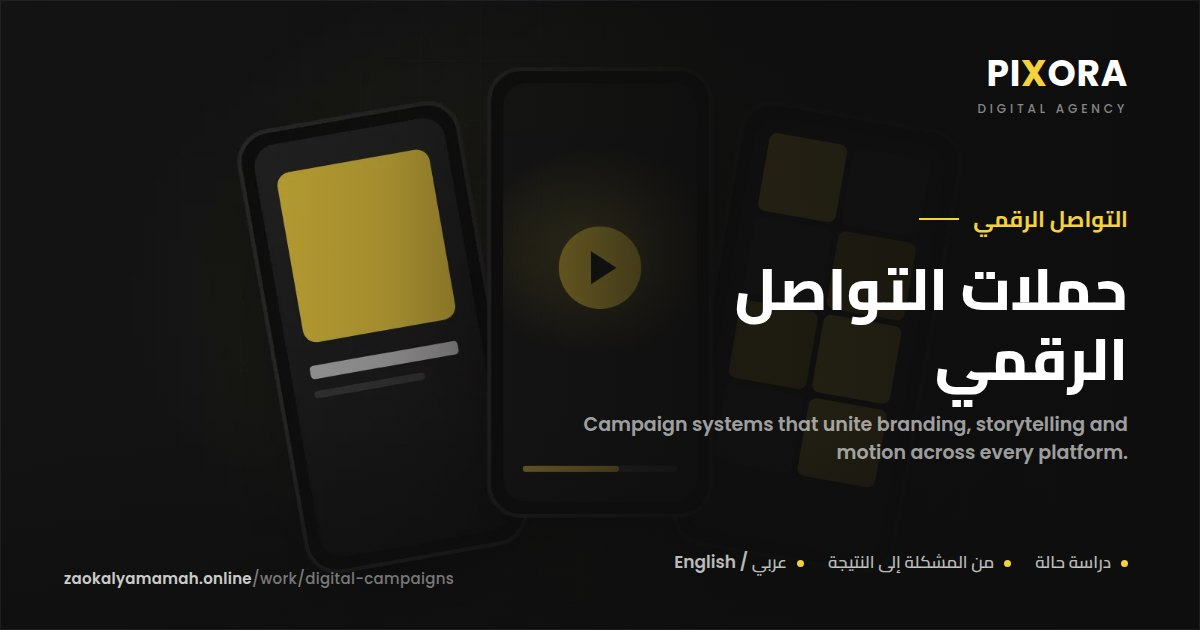
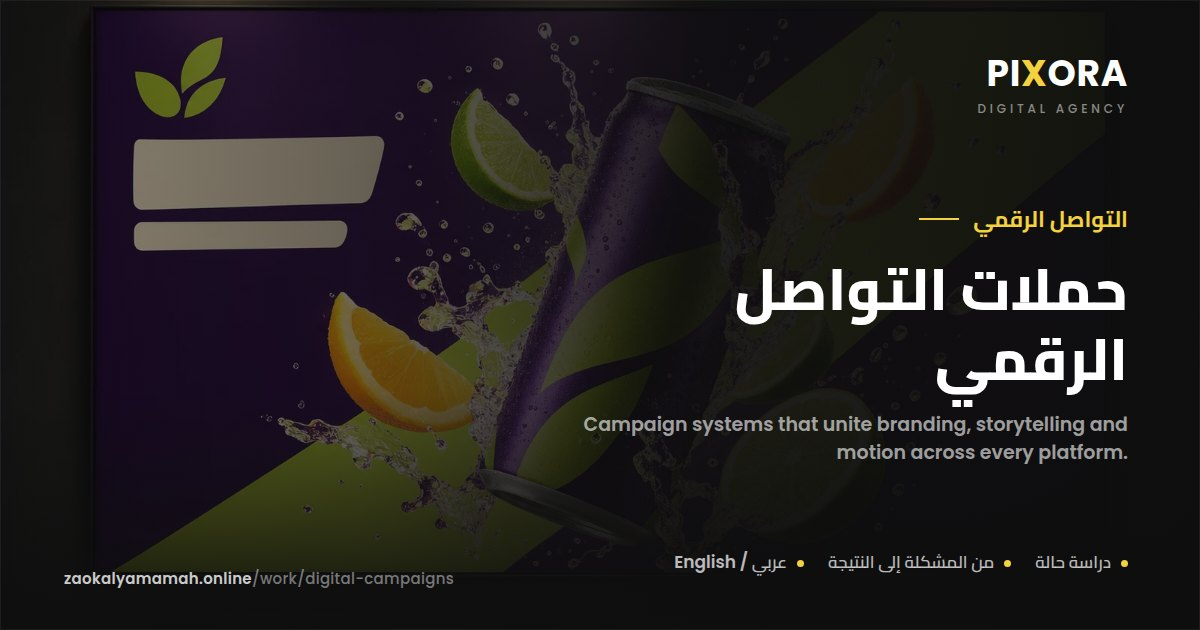
Digital campaigns: the real work in place of its placeholders
- Four images (key visual, motion, stories, feed posts) encoded with
  images.py work; the key visual is now the study's card and link preview.
- images.py work accepts names saved with a doubled extension
  (x.png.png), as the image tool writes them.

Claude-Session: https://claude.ai/code/session_01NJL9QvcoEBBfKSiRxG5s9B

diff --git a/tools/images.py b/tools/images.py
@@ -92,19 +92,23 @@ def work(folder):
     for src in sorted(folder.iterdir()):
         if src.suffix.lower() not in (".png", ".jpg", ".jpeg", ".webp"):
             continue
-        if src.stem not in names:
+        # "x.png.png", as some tools save it, is x.
+        stem = src.name
+        while pathlib.Path(stem).suffix.lower() in (".png", ".jpg", ".jpeg", ".webp"):
+            stem = pathlib.Path(stem).stem
+        if stem not in names:
             print(f"skipped {src.name}: not <slug>-<piece> of a study in tools/case_stories.py")
             continue
-        w, h = names[src.stem]
+        w, h = names[stem]
         for width, suffix in ((1600, ""), (800, "-800")):
             height = round(width * h / w)
-            webp(src, f"case-{src.stem}{suffix}.webp",
+            webp(src, f"case-{stem}{suffix}.webp",
                  f"scale={width}:{height}:force_original_aspect_ratio=increase:flags=lanczos,crop={width}:{height}", 82)
         found += 1
-        print(f"overlay/assets/case-{src.stem}.webp (+ -800)")
+        print(f"overlay/assets/case-{stem}.webp (+ -800)")
         # The study's first piece is its cover now: the drawn one goes.
-        slug = next(s for s in STORIES if src.stem.startswith(s + "-"))
-        if src.stem == f"{slug}-{STORIES[slug]['hero'][0]}":
+        slug = next(s for s in STORIES if stem.startswith(s + "-"))
+        if stem == f"{slug}-{STORIES[slug]['hero'][0]}":
             for old in (f"case-{slug}.webp", f"case-{slug}-800.webp"):
                 if (OUT / old).exists():
                     (OUT / old).unlink()
